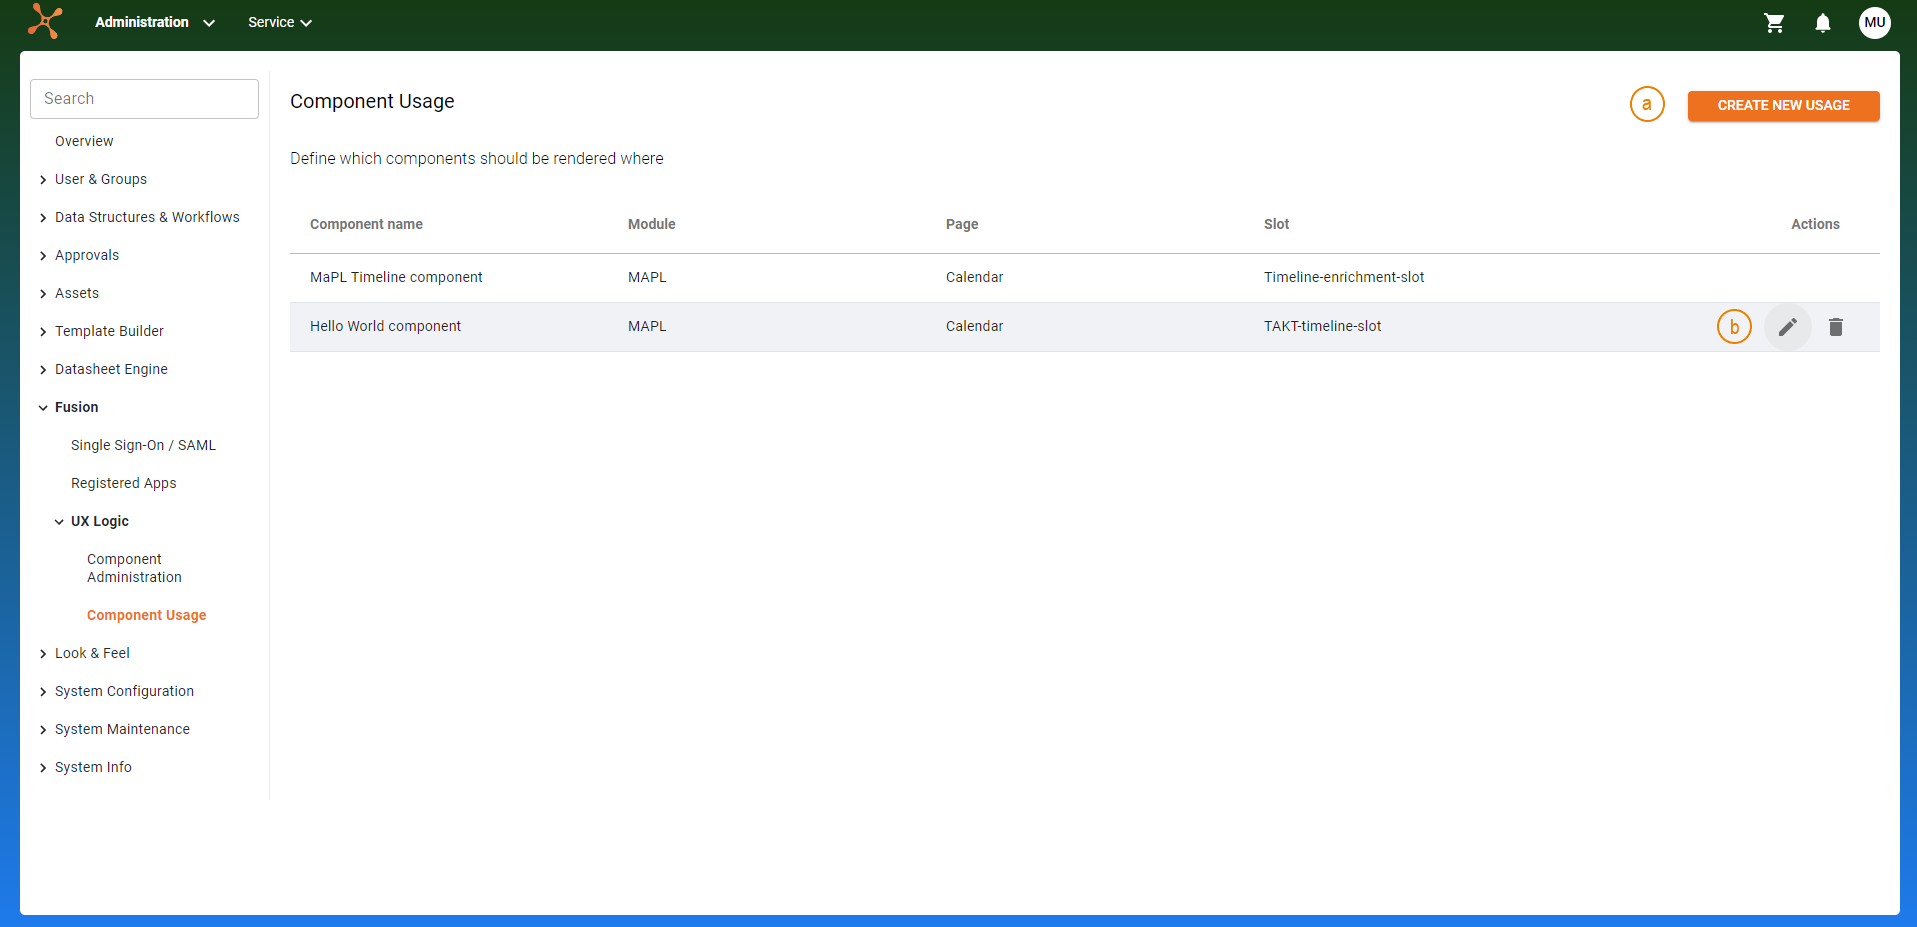
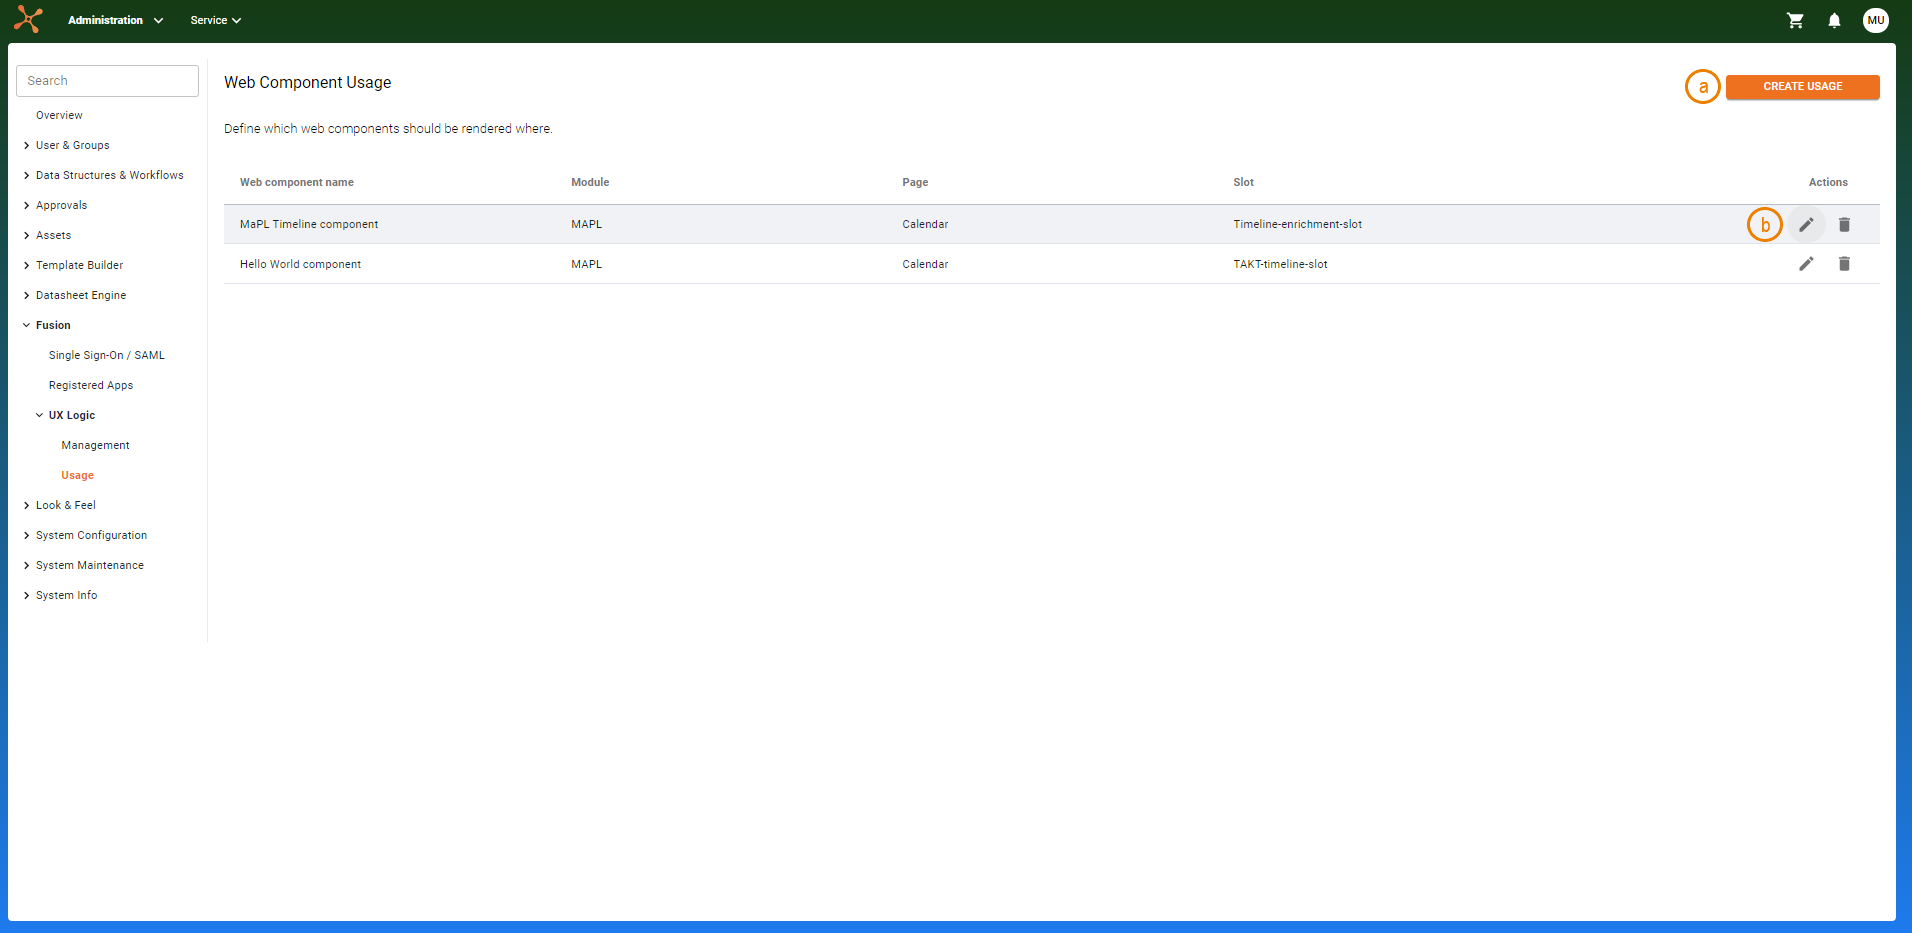
update fux guide

diff --git a/src/content/guides/fusion_ux_logic.md b/src/content/guides/fusion_ux_logic.md
@@ -17,12 +17,12 @@ title: "Fusion UX Logic Guide"
 
 With Fusion UX Logic, clients can now integrate **custom UI components** into [**predefined places**](#page-slots) in their BrandMaker system. 
 Possible functionalities easy to implement with custom components are:
-- pulling additional information from 3rd party applications and displaying them
-  - showing that Fusion UX Apps can execute lookups, e.g. in external databases
-- integrating a Lickert Scale or other evaluation questionnaires
-  - showing that Fusion UX Apps can write back results <!-- can they? Otherwise, remove -->
-- visualize existing information in customized component
-  - as charts etc.
+- Pulling additional information from 3rd party applications and displaying them
+  - Showing that Fusion UX Apps can execute lookups, e.g. in external databases
+- Integrating a Lickert Scale or other evaluation questionnaires
+  - Showing that Fusion UX Apps can write back results <!-- can they? Otherwise, remove -->
+- Visualize existing information in customized component
+  - Like charts etc.
 
 
 [Web Components](#web-component-basics) serve as the technical foundation. Besides the initial component, a Fusion UX App also consists of a set of configuration values collected in a [Manifest file](#manifest-file). \
@@ -33,8 +33,8 @@ Within the administration module, custom components are managed under 'Fusion/UX
 
 ![](/assets/guides/fusion-ux-logic/navigation.png)
 
-### (1) Component Administration
-The **scripts** for the Fusion UX Apps are managed in the section 'Component Administration'. This administration includes the registration of new component scripts and adaptation of existing ones.
+### (1) Management
+The **scripts** for the Fusion UX Apps are managed in the section 'Management'. This administration includes the registration of new component scripts and adaptation of existing ones.
 
  ![](/assets/guides/fusion-ux-logic/admin_overview.png)
 
@@ -43,12 +43,12 @@ The BrandMaker system will not check the uploaded files. If the validation passe
 
 ![](/assets/guides/fusion-ux-logic/admin_upload_new_component.png)
 
-(b): To adjust a script, click on the corresponding table entry. The opened page shows the metadata and attributes of the component. The page only *displays* these values. To *adjust* them, alter the source files and re-upload them. If the component is already used inside the system (see Component Usage), make sure the attributes still work with the defined usages or adjust the usage accordingly.
+(b): To adjust a script, click on the corresponding table entry. The opened page shows the metadata and attributes of the component. The page only *displays* these values. To *adjust* them, alter the source files and re-upload them. If the component is already used inside the system (see Usage), make sure the attributes still work with the defined usages or adjust the usage accordingly.
 
 ![](/assets/guides/fusion-ux-logic/admin_adjust_component.png)
 
-### (2) Component Usage
-In this section, the actual 'Component Usage', meaning the integration into the BrandMaker system, is defined and managed. The usage definition includes where (**placement**) and how (**configuration**) the component will be rendered. \
+### (2) Usage
+In this section, the actual 'Usage', meaning the integration into the BrandMaker system, is defined and managed. The usage definition includes where (**placement**) and how (**configuration**) the component will be rendered. \
 Module, page, and a predefined slot within the module define the placement. Important to notice, one place can only have one associated usage at a time.
 
 ![](/assets/guides/fusion-ux-logic/usage_overview.png)
@@ -104,7 +104,7 @@ A Fusion UX App consists of:
 - any additional JS files required from the component
   - additional libraries are NOT allowed (to prevent license obligations and conflict with Page libraries or versions)
 
-These constituents are bundled into one ZIP file (flat list of files, o nesting) and uploaded at once when registering a new component.\
+These constituents are bundled into one ZIP file (flat list of files, or nesting) and uploaded at once when registering a new component.\
 <span style="color:gray">*To create the ZIP file, use a framework like [Webpack](#https://webpack.js.org/), which compresses the constituents into one single file.*</span>
 
 
@@ -129,16 +129,16 @@ Once the component is successfully registered, it will also have a unique ID as 
 The name and the tag name need to be unique within your system. Also, Fusion UX Apps need at least one attribute.
 
 #### Page Slots
-As mentioned before, Fusion UX Apps are integrated into predefined places called Page Slots. They are defined by
+As mentioned before, Fusion UX Apps are integrated into predefined places called page slots. They are defined by
 - ID and name
-- Page (defined by Id, name, and module)
-- Collection of Slot Attributes, each one defined by
+- Page (defined by ID, name, and module)
+- Collection of slot attributes, each one defined by
   - ID, name, and description
   - type (STRING, NUMBER, FUNCTION or URL)
 
 Setting up a Usage triggers the creation of a page slot configuration, which assigns the page slot to a component and captures the relations for the component attributes. The resolution is as follows:
 1. Take value from the assigned slot attribute
-   - the slot attributes are specified per page slot <span style="color:red">*(see [Page Slot Definition](todo: link))*</span>
+   - the slot attributes are specified per page slot *(see navigation about page slots definition)*
 2. Use default value
 3. If not required: `null` 
 
@@ -243,24 +243,24 @@ export default class HelloWorldComponent extends HTMLElement {
 
 
 #### Installation and Integration
-After registering the bundled App like shown under [Component Administration](#(1)-component-administration), the detail page should look like this:
+After registering the bundled app like shown under [Management](#(1)-component-administration), the detail page should look like this:
 
 ![](/assets/guides/fusion-ux-logic/hello_world_detail_page.png)
 
-In this example, the content enrichment timeline node in MAPL will display the component. To render the Fusion UX App there, a new 'Component Usage' will be defined. \
-The filled-out Usage form for the Hello World component will look like this:
+In this example, the content enrichment timeline node in MAPL will display the component. To render the Fusion UX App there, a new 'Usage' will be defined. \
+The filled-out usage form for the Hello World component will look like this:
 
 ![](/assets/guides/fusion-ux-logic/hello_world_usage_form.png)
 
 Some notes about the attributes and their assignments:
-- the default value will be used, if no other value is available
+- The default value will be used, if no other value is available
 - `fux-name` only has the default value
-    - therefore, the attribute will always have this value
-    - because the attribute is not required, it would also be valid to leave this field empty
-- the timeline slot provides two arguments itself:
+    - Therefore, the attribute will always have this value
+    - Because the attribute is not required, it would also be valid to leave this field empty
+- The timeline slot provides two arguments itself:
     - `timelineId` and `nodeId`
-    - both are of the type NUMBER and thus can only be assigned to a NUMBER attribute
-    - in this example, it can be assigned to the component attribute `fux-start-number`
+    - Both are of the type NUMBER and thus can only be assigned to a NUMBER attribute
+    - In this example, it can be assigned to the component attribute `fux-start-number`
 
 
 The code for the rendered component (inside MAPL) will look like this:
